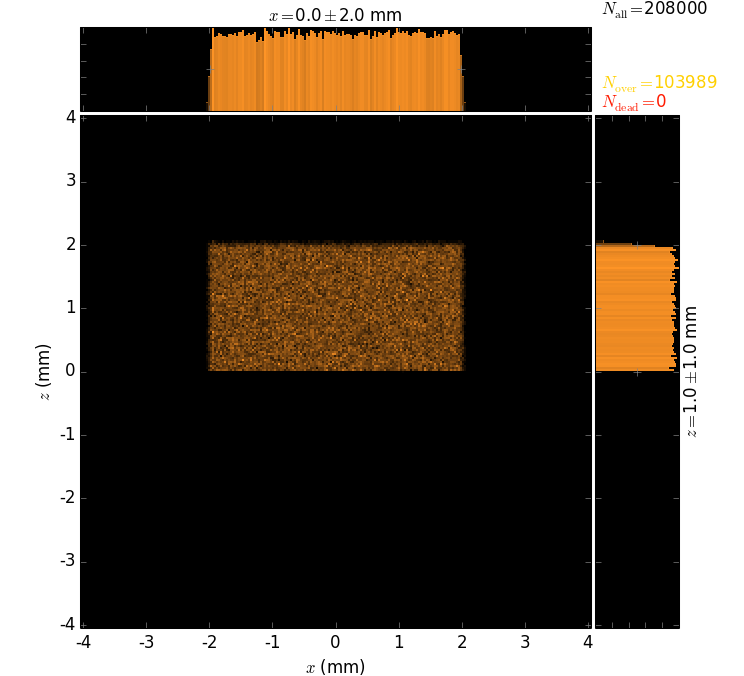
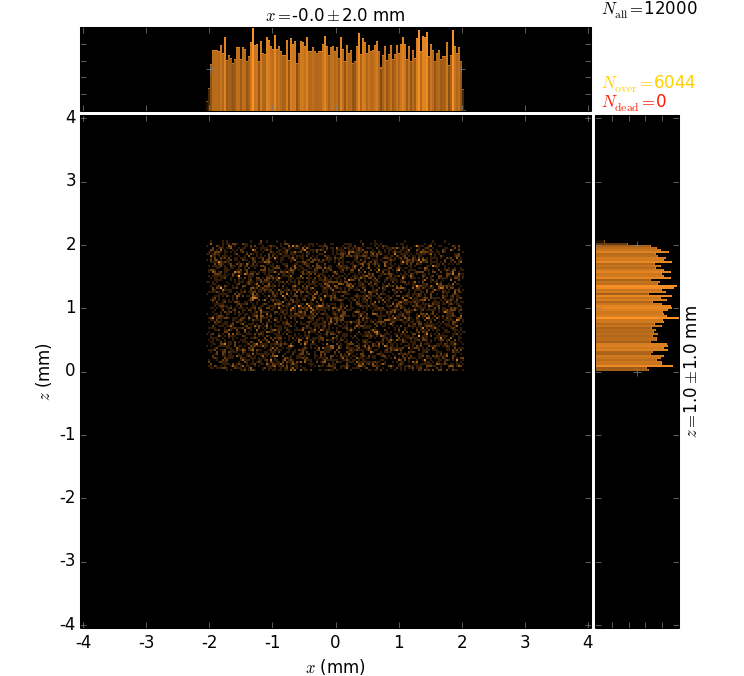
wtf

diff --git a/object_testing.py b/object_testing.py
@@ -22,11 +22,12 @@ from customobjects import CustomShape
 
 """ WELL DOCUMENTED PARAMETERS """
 repeats = 1e4   # liczba
-E0      = 9000  # [eV]
+E0      = 29000  # [eV]
 D_      = 40    # [mm] | constant screen position
 
 xLimits = [-4.05, 4.05] # Plot limits
-zLimits = xLimits       # axis square
+zLimits = [4*x for x in xLimits]
+#zLimits = xLimits       # axis square
 
 processes = 4
 
@@ -73,7 +74,7 @@ def build_beamline(nrays=1000):
 #    thing = roe.OE(beamLine, 'thing', material=mGold,\
 #                   shape=shape, limPhysY=limPhysY,\
 #                   roll=0*np.pi/3., limPhysX=limPhysX)
-    thing = CustomShape(beamLine, 'thing', material=mGold,\
+    thing = CustomShape(beamLine, 'thing', material=mGlass,\
                    R = 1.0, limPhysY=limPhysY,\
                    roll=0.*np.pi, limPhysX=limPhysX)
 
@@ -110,23 +111,6 @@ rr.run_process = run_process
 def main():
     beamLine = build_beamline()
     plots = []
-
-    # Plot creation
-    plot = xrtp.XYCPlot('screen_{0:02d}'.format(D_),(-1,3,),
-        xaxis=xrtp.XYCAxis(r'$x$', 'mm',\
-                           bins=256, ppb=2,\
-                           limits=xLimits),
-        yaxis=xrtp.XYCAxis(r'$z$', 'mm',\
-                           bins=256, ppb=2,\
-                           limits=zLimits),
-        caxis='category', beamState='screen_{0:02d}'.format(D_),
-        title='Distance from source = {0:02d} [mm]'.format(D_))
-
-    # Names
-    plot.baseName = 'object_over'
-    plot.saveName = 'png/object/' + plot.baseName + '.png'
-
-    plots.append(plot)
 
     # Plot creation
     plot = xrtp.XYCPlot('screen_{0:02d}'.format(D_),(1,3,),

diff --git a/customobjects.py b/customobjects.py
@@ -13,14 +13,14 @@ class CustomShape(roe.OE):
         # x
         a = 0.0
         # y
-        b = 4.0
+        b = 1
         # z
         c = 1.0
         norm = (a**2 + c**2)**0.5
         return [a/norm, b/norm, c/norm]
 
     def local_z(self, x, y):
-        return -2. + 0.2*(y - self.limPhysY[0])
+        return -2. + 1.0*(y - self.limPhysY[0])
 
 if __name__ == '__main__':
     verts = [
